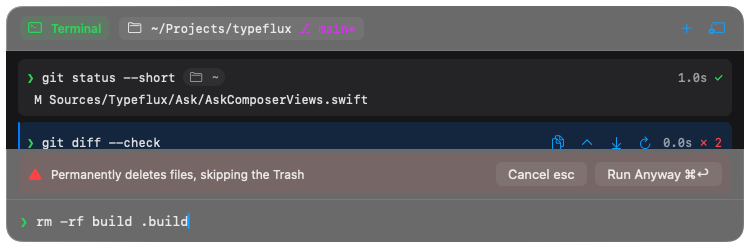
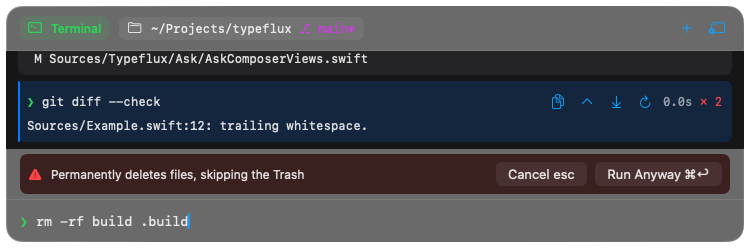
GUL-702: Keep terminal output visible during risk confirmation

Changed region(s): [[0.0, 0.2823, 0.9813, 0.7903], [0.0307, 0.1976, 0.4907, 0.254], [0.8893, 0.2823, 0.9813, 0.3387]]

diff --git a/Tests/TypefluxTests/TerminalCommandTests+Launcher.swift b/Tests/TypefluxTests/TerminalCommandTests+Launcher.swift
@@ -401,9 +401,9 @@ extension TerminalCommandTests {
     }
 
     @Test(arguments: [true, false]) func `capture launcher terminal states`(dark: Bool) async throws {
-        guard let path = ProcessInfo.processInfo.environment["TYPEFLUX_TERMINAL_SNAPSHOTS"] else { return }
-        let folder = URL(fileURLWithPath: path)
-        try FileManager.default.createDirectory(at: folder, withIntermediateDirectories: true)
+        let folder = ProcessInfo.processInfo.environment["TYPEFLUX_TERMINAL_SNAPSHOTS"]
+            .map { URL(fileURLWithPath: $0) }
+        if let folder { try FileManager.default.createDirectory(at: folder, withIntermediateDirectories: true) }
         let process = FakeTerminalProcess()
         let history = TerminalCommandHistory(defaults: UserDefaults(suiteName: UUID().uuidString)!)
         history.record("git status --short")
@@ -420,6 +420,9 @@ extension TerminalCommandTests {
         defer { tabbedWindow.moveBack(); launcher.close(); center.terminateAll() }
         let model = launcher.fixture.model
         let window = launcher.window
+        let enhancedAccessibility = NSAccessibility.Attribute(rawValue: "AXEnhancedUserInterface")
+        NSApp.accessibilitySetValue(true, forAttribute: enhancedAccessibility)
+        defer { NSApp.accessibilitySetValue(false, forAttribute: enhancedAccessibility) }
         window.appearance = NSAppearance(named: dark ? .darkAqua : .aqua)
         let theme = dark ? "dark" : "light"
 
@@ -432,12 +435,33 @@ extension TerminalCommandTests {
             }
             let view = try #require(panel == nil ? host.contentView : host.contentView?.superview)
             view.layoutSubtreeIfNeeded()
+            guard let folder else { return }
             let image = try #require(view.bitmapImageRepForCachingDisplay(in: view.bounds))
             view.cacheDisplay(in: view.bounds, to: image)
             let png = try #require(image.representation(using: .png, properties: [:]))
             try png.write(to: folder.appendingPathComponent("\(name)-\(theme).png"))
         }
         func osc(_ text: String) -> String { "\u{1b}]" + text + "\u{7}" }
+        func accessibilityFrame(_ identifier: String) throws -> NSRect {
+            var visited = Set<ObjectIdentifier>()
+            func find(_ element: NSObject) -> NSRect? {
+                guard visited.insert(ObjectIdentifier(element)).inserted else { return nil }
+                if element.responds(to: NSSelectorFromString("accessibilityIdentifier")),
+                   element.value(forKey: "accessibilityIdentifier") as? String == identifier,
+                   element.responds(to: NSSelectorFromString("accessibilityFrame")) {
+                    return (element.value(forKey: "accessibilityFrame") as? NSValue)?.rectValue
+                }
+                guard element.responds(to: NSSelectorFromString("accessibilityChildren")),
+                      let children = element.value(forKey: "accessibilityChildren") as? [NSObject] else { return nil }
+                for child in children {
+                    if let frame = find(child) { return frame }
+                }
+                return nil
+            }
+            let frame = try #require(find(window), "Missing accessibility element \(identifier)")
+            try #require(!frame.isEmpty)
+            return frame
+        }
 
         try await AskQuickSearchSessionTests.wait { model.plugins.isPlanCurrent }
         for _ in 0 ..< 3 { try await launcher.press(125) }
@@ -458,9 +482,19 @@ extension TerminalCommandTests {
         process.emit(osc("133;C") + "Sources/Example.swift:12: trailing whitespace.\r\n" + osc("133;D;2") + osc("133;B"))
         presentation.select(-1)
         try await capture("session")
+        let lastBlock = try #require(session.blocks.last)
+        let blockIdentifier = "terminal.block.\(lastBlock.id)"
+        let originalHeight = try accessibilityFrame(blockIdentifier).height
         presentation.fill("rm -rf build .build")
         #expect(!presentation.submit() && presentation.pendingRisk == .delete)
         try await capture("risk")
+        let block = try accessibilityFrame(blockIdentifier)
+        let card = try accessibilityFrame("terminal.risk.card")
+        let viewport = try accessibilityFrame("terminal.blockList")
+        #expect(!block.intersects(card) && block.minY >= card.maxY)
+        #expect(viewport.insetBy(dx: -1, dy: -1).contains(block))
+        #expect(block.height >= originalHeight - 1)
+        guard folder != nil else { return }
         let writesBeforeCancel = process.writes.count
         try await terminalKey(53, [], in: window)
         #expect(presentation.pendingRisk == nil && session.blocks.last?.state == .cancelled)

diff --git a/Sources/Typeflux/Ask/QuickResults/Plugins/Terminal/TerminalLauncherView.swift b/Sources/Typeflux/Ask/QuickResults/Plugins/Terminal/TerminalLauncherView.swift
@@ -117,6 +117,8 @@ struct TerminalSessionContent: View {
             blockList
             if let risk = model.pendingRisk {
                 TerminalRiskCard(risk: risk, cancel: { model.cancelRisk() }, confirm: { model.confirmRisk() })
+                    .fixedSize(horizontal: false, vertical: true)
+                    .layoutPriority(1)
             }
             if !model.completionCandidates.isEmpty {
                 completionList
@@ -148,6 +150,14 @@ struct TerminalSessionContent: View {
                     .padding(.vertical, 10)
                     .padding(.horizontal, TerminalRunnerHost.inset.left)
                 }
+                .accessibilityIdentifier("terminal.blockList")
+                .task(id: model.pendingRisk == nil ? nil : viewport.size.height) {
+                    guard model.pendingRisk != nil else { return }
+                    // Re-anchor after layout gives the confirmation row its own space.
+                    await Task.yield()
+                    guard !Task.isCancelled else { return }
+                    scroll.scrollTo("terminal-tail", anchor: .bottom)
+                }
                 .onChange(of: session.blocks.last?.id) { _ in
                     if atTail { scroll.scrollTo("terminal-tail", anchor: .bottom) }
                 }
@@ -165,6 +175,7 @@ struct TerminalSessionContent: View {
             .frame(height: viewport.size.height)
         }
         .background(Color(nsColor: palette.background))
+        .clipped()
     }
 
     private var palette: TerminalRunnerPalette {
@@ -207,6 +218,8 @@ struct TerminalSessionContent: View {
             }
         }
         .contentShape(Rectangle())
+        .accessibilityElement(children: .contain)
+        .accessibilityIdentifier("terminal.block.\(block.id)")
         .onHover { inside in hovered = inside ? block.id : (hovered == block.id ? nil : hovered) }
     }
 

diff --git a/Sources/Typeflux/Ask/QuickResults/Plugins/Terminal/TerminalRiskCard.swift b/Sources/Typeflux/Ask/QuickResults/Plugins/Terminal/TerminalRiskCard.swift
@@ -19,9 +19,10 @@ struct TerminalRiskCard: View {
         }
         .font(.system(size: 12))
         .padding(8)
-        .background(Color.red.opacity(0.09), in: RoundedRectangle(cornerRadius: 7))
+        .background(AskTheme.dangerSoft, in: RoundedRectangle(cornerRadius: 7))
         .padding(.horizontal, 14)
         .padding(.vertical, 5)
+        .accessibilityElement(children: .contain)
         .accessibilityIdentifier("terminal.risk.card")
     }
 }
